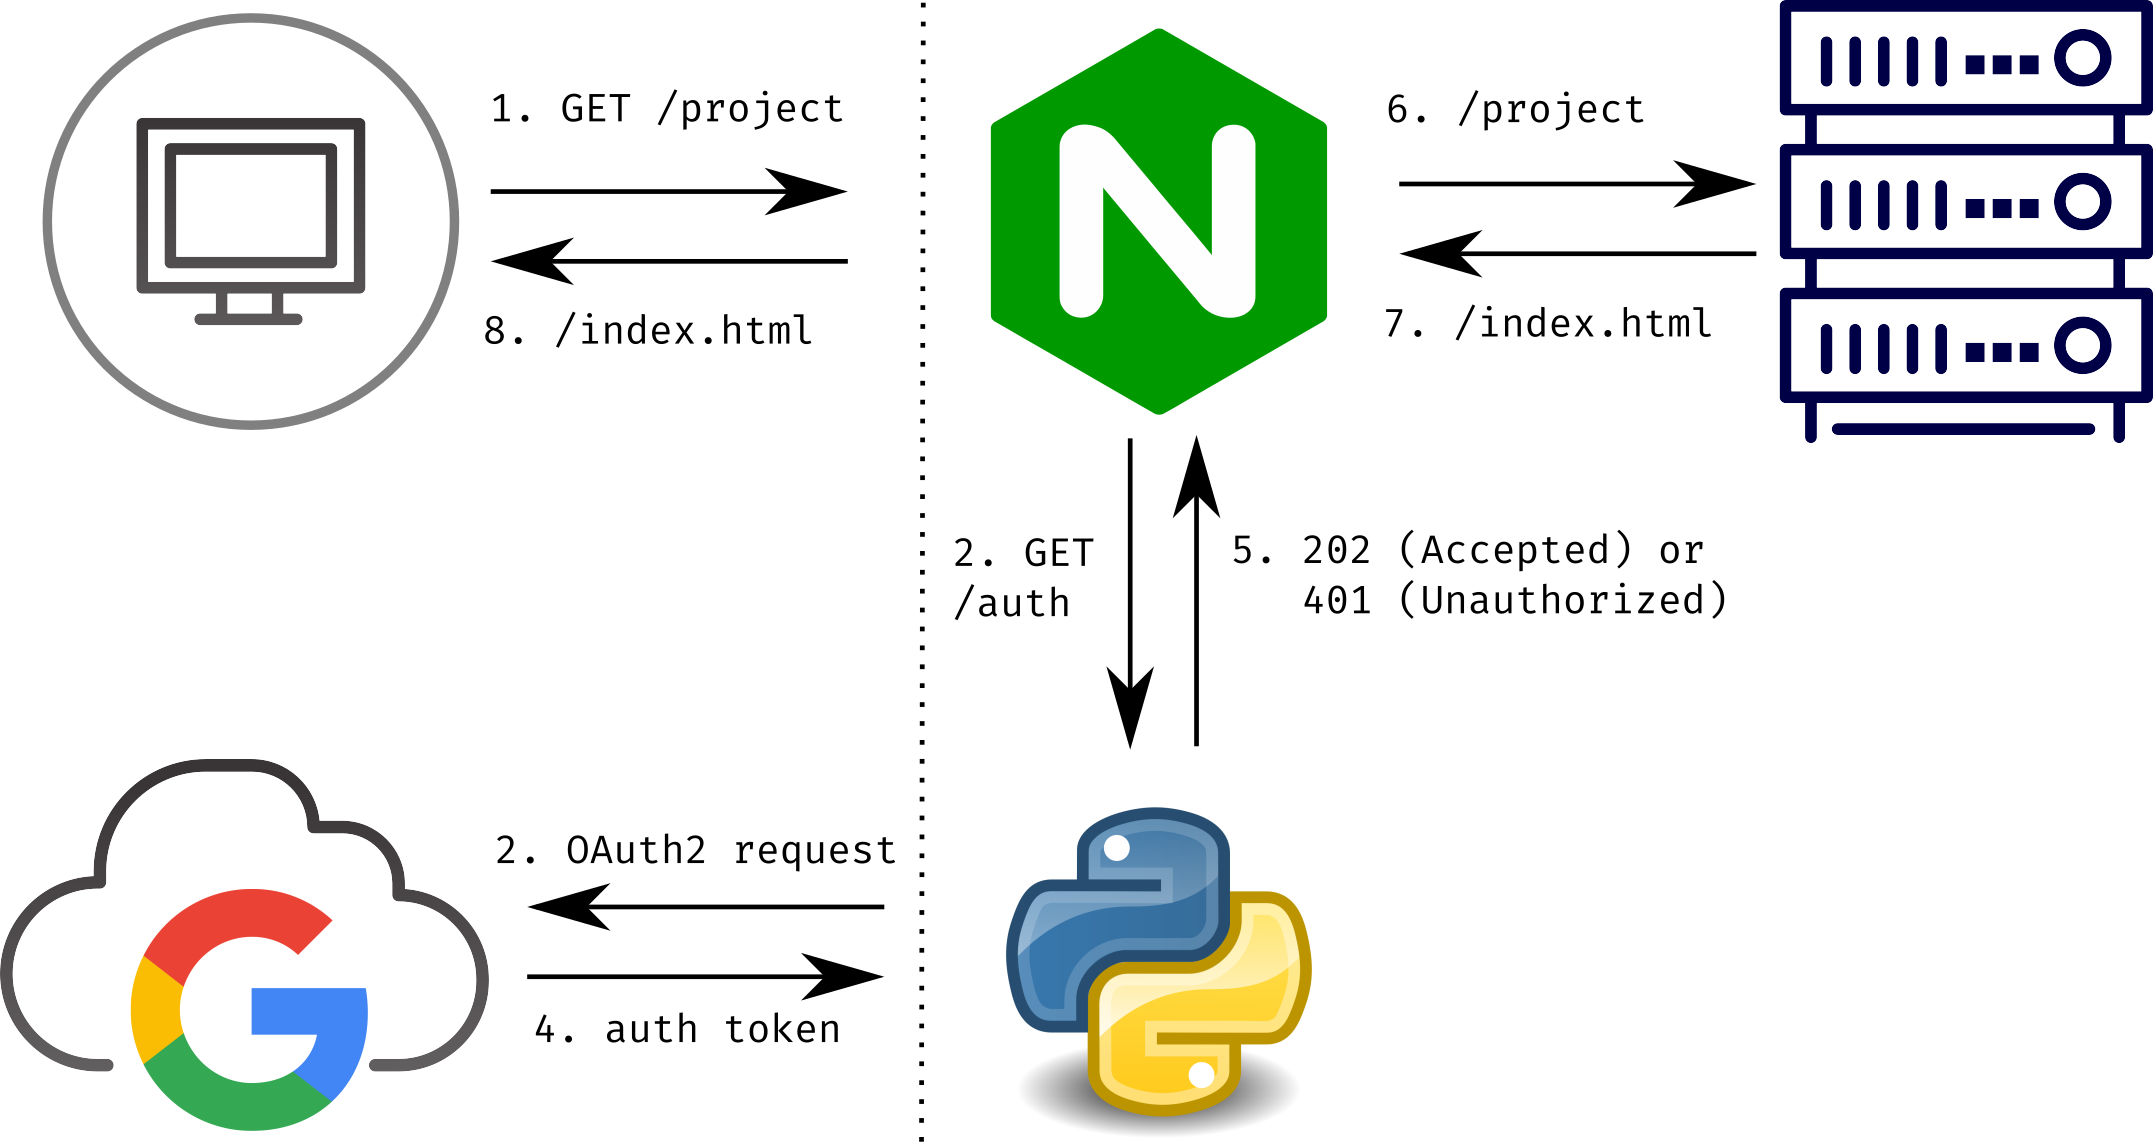
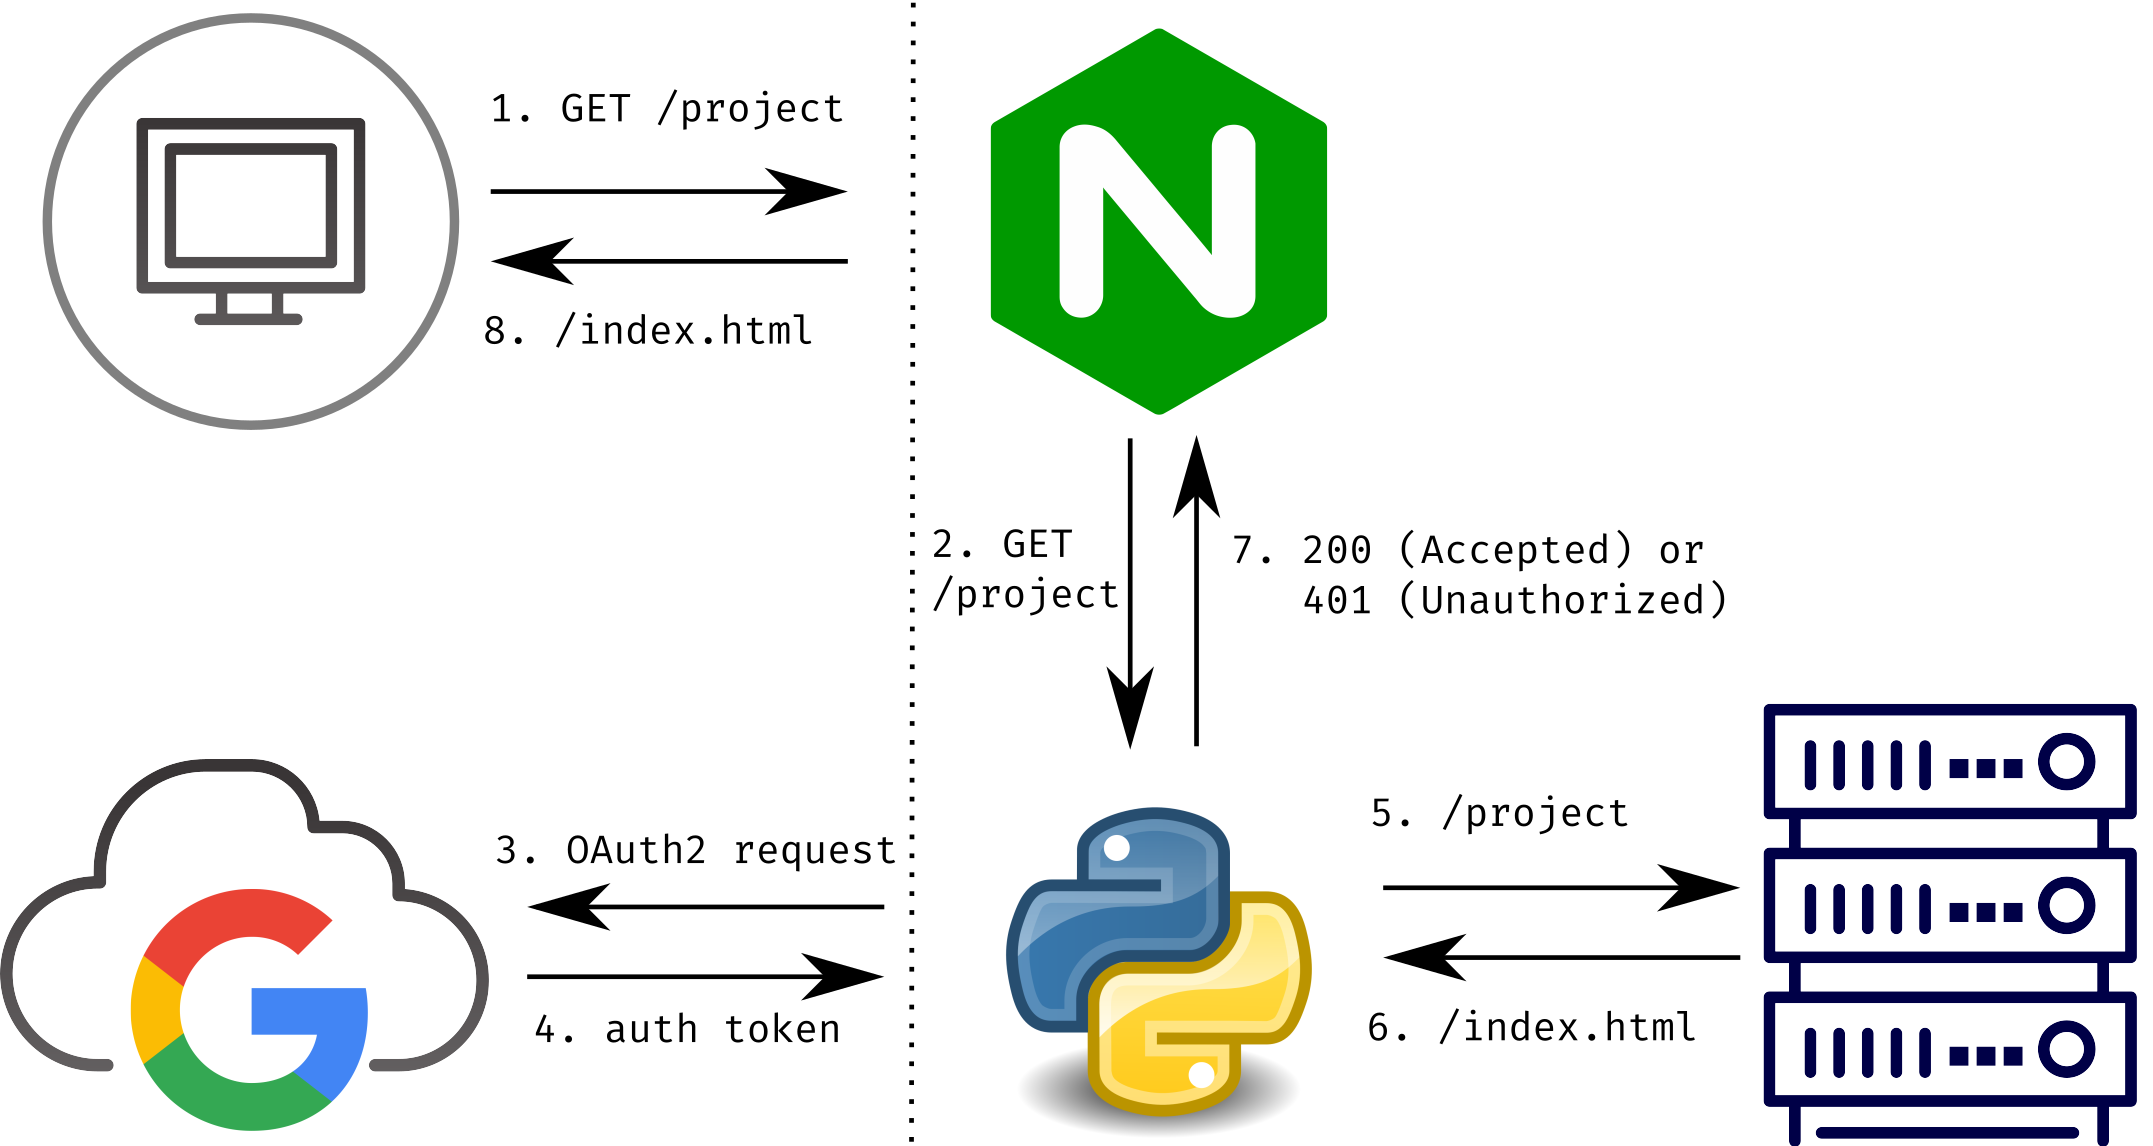
📝 Update docs

diff --git a/README.md b/README.md
@@ -14,20 +14,18 @@ As páginas do GitHub pages são abertas para todos e não é interessante que q
 
 Pensando nesse problema, criamos um conjunto de configurações para um servidor [nginx](https://www.nginx.com/) com autenticação pelo Google, de modo que qualquer pessoa com email @thunderatz.org é capaz de acessar a página. A autenticação é feita por meio de um app [Flask](https://flask.palletsprojects.com/en/1.1.x/) (framework python) que faz a requisição para o site do Google e faz o gerenciamento da sessão do usuário.
 
- ## Estrutura das requisições
- 
+## Estrutura das requisições
+
  ![requests](./docs/requests.png)
 
 1. Um cliente faz uma requisição para o algum endereço dentro do docs.thudneratz.org
-2. O servidor nginx consulta a aplicação Flask para saber se o cliente está autenticado
-    1. Caso o cliente tenha se autenticado previamente, a aplicação responde prontamente com um [código http](https://http.cat/) 202 (requisição aceita)
-    2. A autenticação é salva nos cookies da sessão do navegador
+2. O servidor nginx repassa a requisição para a aplicação python
 3. Caso o cliente ainda não tenha se autenticado, o usuário é levado à página /login para autenticação com a conta do Google
 4. Caso os dados sejam válidos, o servidor do Google responde com um token de acesso
-5. Uma vez com o token de acesso, a aplicação Flask salva o token nos cookies da sessão e responde o nginx se a operação de autenticação foi bem sucedida
-    1. Qualquer código 2xx será interpretado pelo nginx como autenticação bem sucedida enquanto qualquer código 4xx será interpretado como falha na autenticação
-6. Se a operação foi bem sucedida, o nginx puxa os arquivos na pasta requisitada
-7. O arquivo .html correspondente é carregado
+5. Se a autenticação foi bem sucedida, o python puxa os arquivos na pasta requisitada
+6. O arquivo .html correspondente é carregado
+7. O arquivo é então enviado ao nginx
+   1. Caso o cliente não tenha se autenticado corretamente, o cliente é redirecionado novamente para a página de login
 8. O cliente recebe o arquivo requisitado
 
 Para saber mais sobre autenticação OAuth com nginx, veja [esse link](https://www.nginx.com/blog/validating-oauth-2-0-access-tokens-nginx/) e [essa pergunta](https://stackoverflow.com/questions/55719659/using-flask-login-to-authenticate-nginx-reverse-proxy) no StackOverflow e [essa](https://www.ruby-forum.com/t/is-there-setting-equivalent-to-proxy-set-header-for-uwsgi/210778) no ruby-forum pra saber como redirecionar requisições de autenticação para o Flask.
@@ -53,13 +51,9 @@ sudo systemctl enable trdocs
 
 Para fazer a configuração dos certificados de https, utilizamos o [certbot](https://certbot.eff.org/). Para o novo domínio, precisamos gerar novos certificados. Recomendo seguir o tutorial oficial, que é bem completo e explicado
 
-
 ## Desenvolvimento local
 
 Para desenvolvimento local, é necessário que o servidor local tenha suporte a https. Para fazer essa configuração, recomendo [esse tutorial](https://adrianorosa.com/blog/nginx/configurar-nginx-https-server-com-self-signed-ssl-certificado.html). Vou deixar como referência também [esse guia](https://blog.miguelgrinberg.com/post/running-your-flask-application-over-https) com o passo a passo desde o desenvolvimento local até o deploy
-
-No nosso servidor, os certificados https já estão configurados corretamente
-
 
 ## ToDo
 
